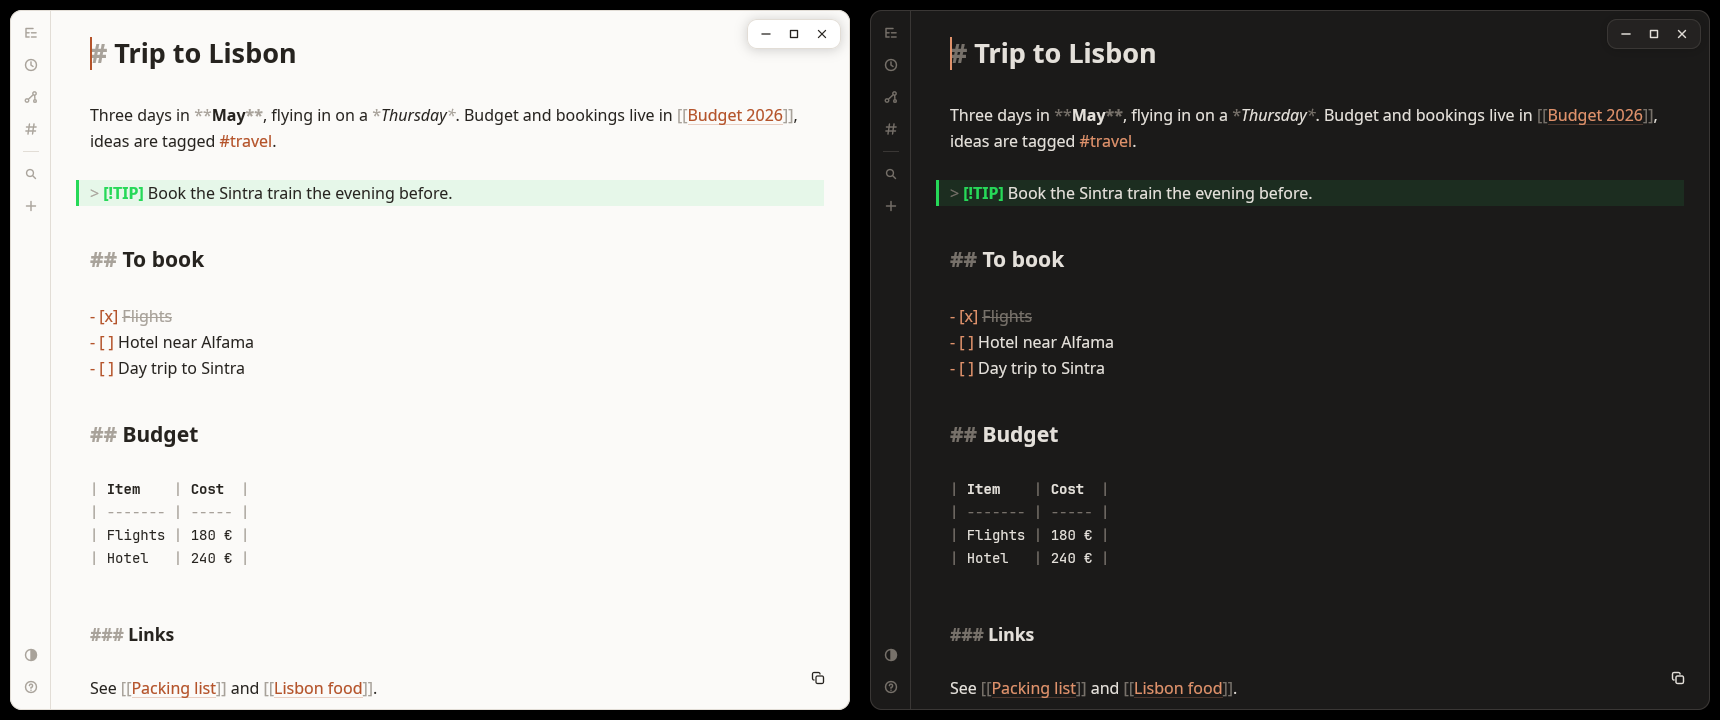
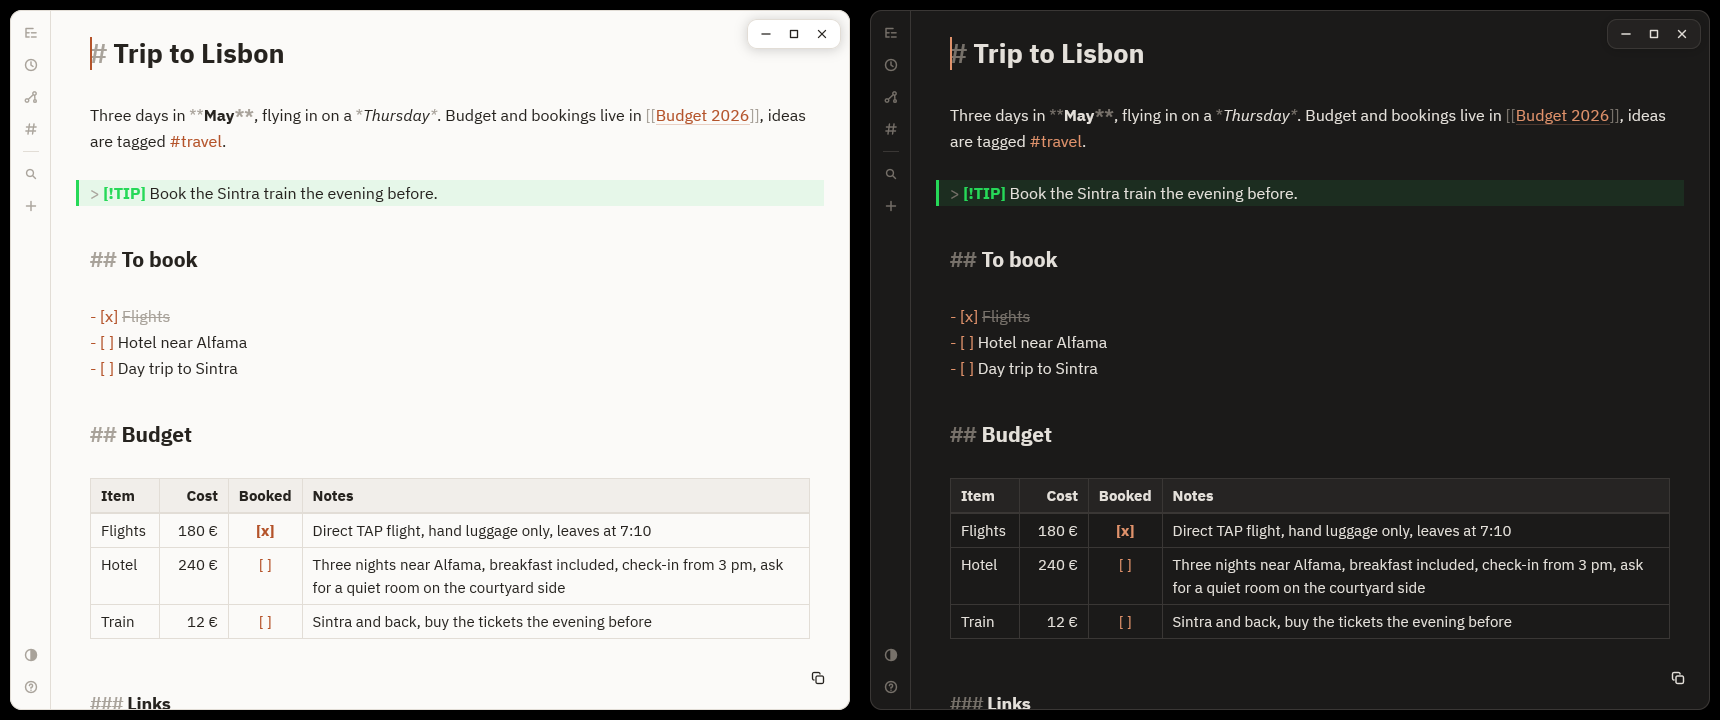
docs: present tables, boxes and the built-in fonts, keep one screenshot
The README and the project page now describe the grid tables, the boxes
that tick anywhere, the pasting rules and the built-in IBM Plex fonts.
The screenshot shows the new rendering. The pictures of single features
(shortcut panel, graph, search, update banner) are removed: one picture
of the app is enough.

diff --git a/docs/index.html b/docs/index.html
@@ -141,18 +141,9 @@ footer { color: var(--soft); font-size: .88rem; display: flex; flex-wrap: wrap; 
     <li><b>Search inside your notes</b>: the palette finds a note by its name, then by any words in its text, and shows the line that matched.</li>
     <li><b>Follows your folder</b>: notes added, renamed or changed by another program or a sync tool show up within a fraction of a second.</li>
     <li><b>Keeps itself current</b>: a banner says when a new version is out. On Windows, macOS and Arch, one click installs it and restarts Bref. It can be turned off.</li>
-    <li><b>Yours to dress</b>: a dozen themes, any installed font. English and French, following your system.</li>
+    <li><b>Tables like on the web</b>: cells wrap inside their column, <code>[ ]</code> boxes tick with a click, and a table pasted from a web page, a spreadsheet or Markdown just works.</li>
+    <li><b>Yours to dress</b>: a dozen themes, IBM Plex built in so nothing to install (or any font you have), English and French, following your system.</li>
   </ul>
-
-  <h2>Around your notes</h2>
-  <div class="wide pair">
-    <figure style="margin:0"><img src="site/navigation.png" loading="lazy" alt="The graph of links next to a note"><p class="cap">Tree, recent notes, graph and tags, in a panel that folds to a rail.</p></figure>
-    <figure style="margin:0"><img src="site/help.png" loading="lazy" alt="The shortcut panel, with the version and links at its foot"><p class="cap">Every shortcut, one F1 away.</p></figure>
-  </div>
-  <div class="wide pair">
-    <figure style="margin:0"><img src="site/search.png" loading="lazy" alt="The palette listing a note by name, then two notes found by their text, each with the matching line"><p class="cap">The palette searches names first, then the text of your notes.</p></figure>
-    <figure style="margin:0"><img src="site/update.png" loading="lazy" alt="A banner at the bottom of the window announcing a new version, with an Update button"><p class="cap">A banner announces a new version; Update installs it.</p></figure>
-  </div>
 
   <h2 id="install">Install</h2>
   <h3>Arch Linux</h3>

diff --git a/README.md b/README.md
@@ -193,11 +193,7 @@ In the palette, type to search; `Enter` opens the selected note. Notes whose nam
 | `Ctrl + A` `C` `X` `V` | select all, copy, cut, paste |
 | Double click, triple click | select a word, a line; keep dragging to extend by words, by lines |
 
-![The shortcut panel](docs/screenshots/help.png)
-
 ## Navigation
-
-![The graph next to a note](docs/screenshots/navigation.png)
 
 A rail of icons stays on the left of the window. It opens a panel beside the note, in one of four views:
 
